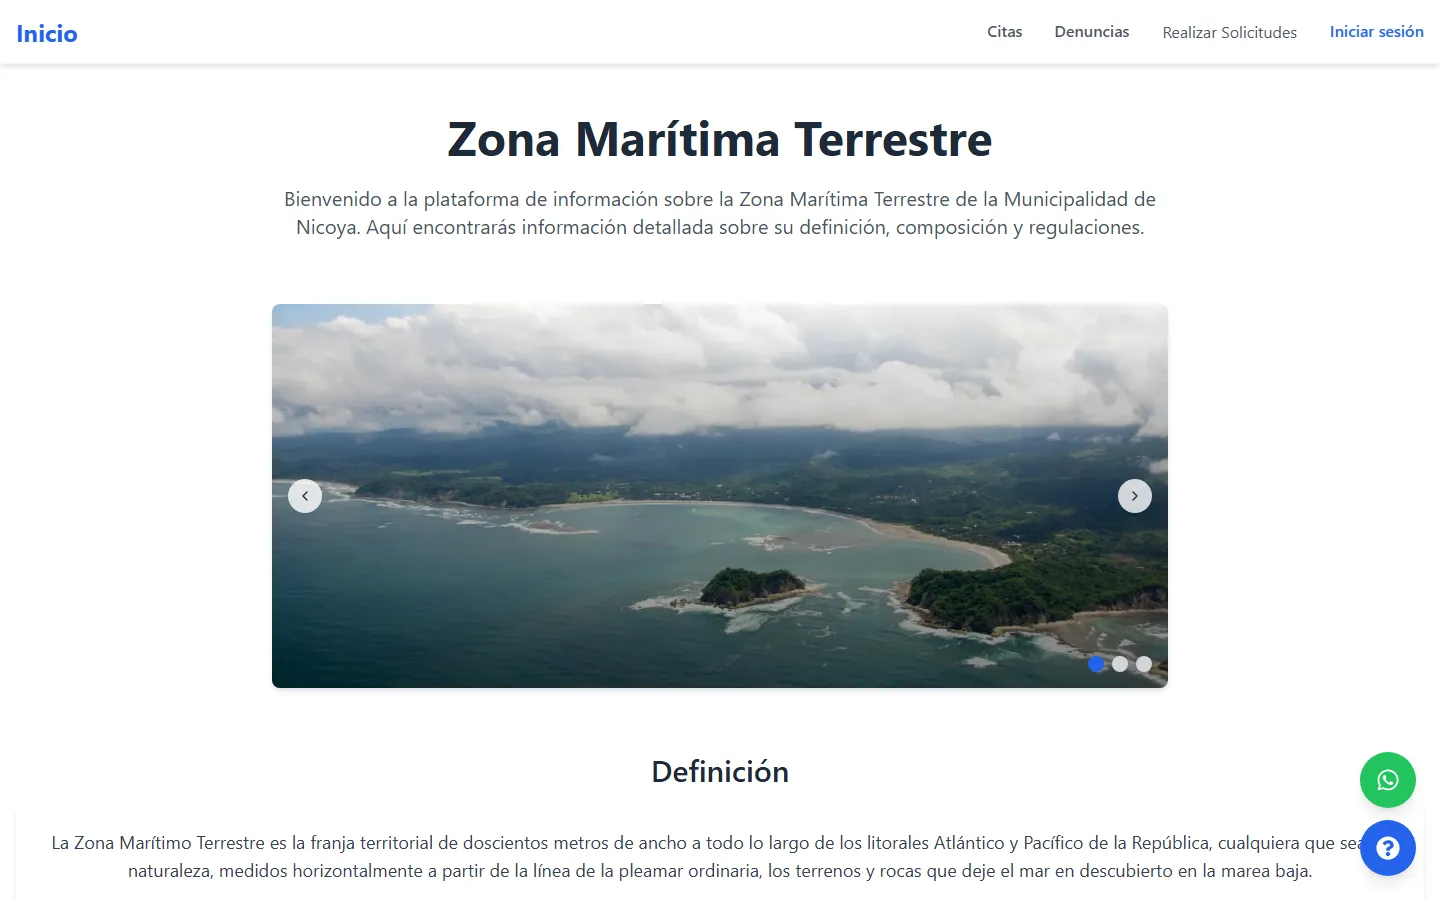
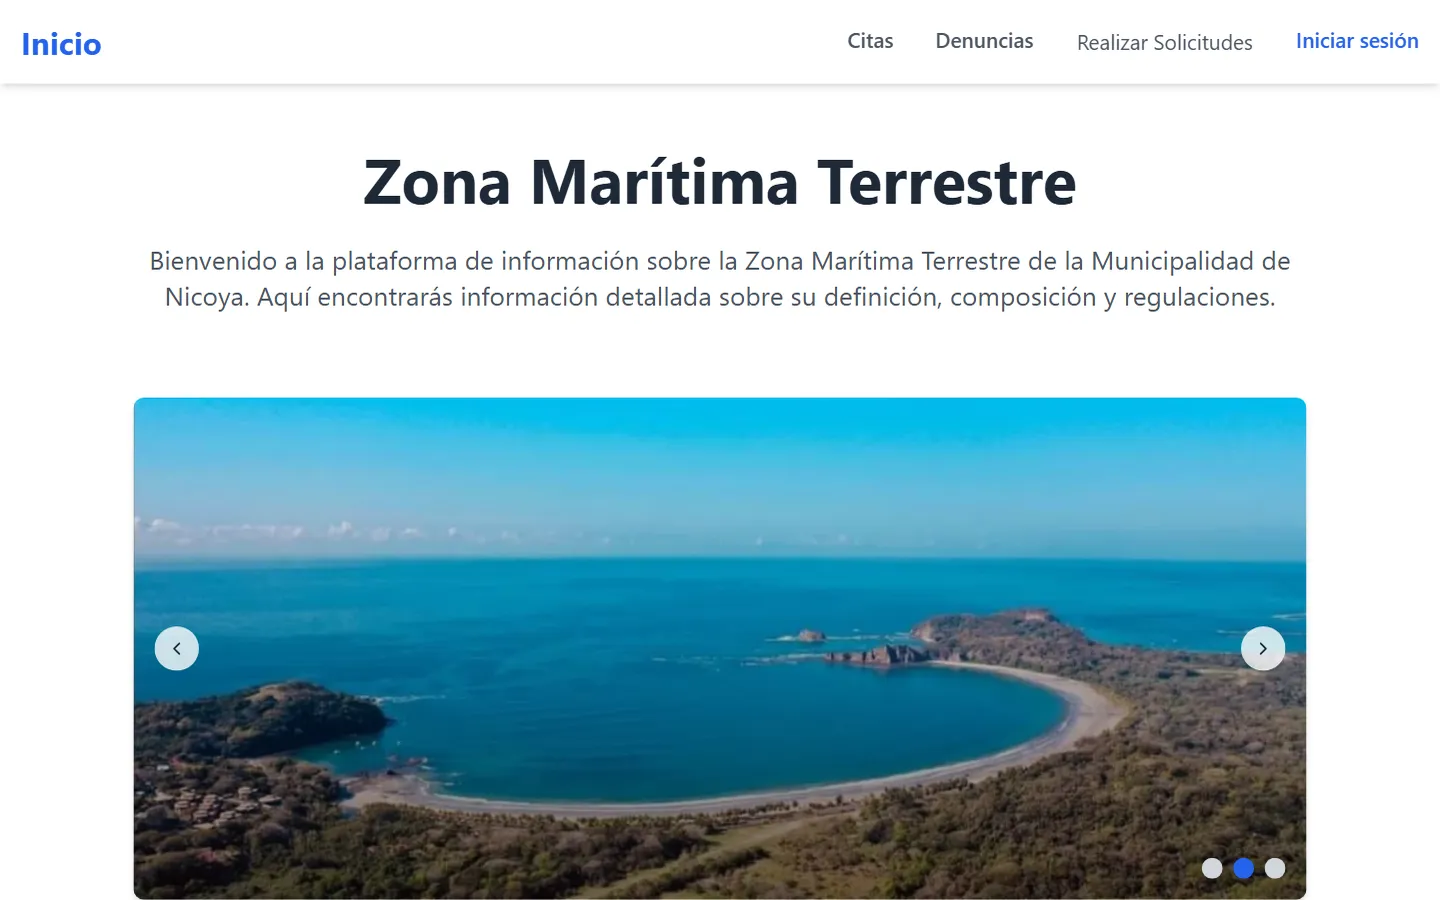
Ajustes tras la revisión del paso 6
- ASADA: el bloque tipográfico de la portada dice "ASADA Gamalotal" (campo opcional coverLabel).
- Portada de nicoya-zmt recortada al encabezado y la foto de la bahía, sin botones flotantes.
- Portada de turismo-cr sin el distintivo de Streamlit abajo a la derecha.
- Risk calculator con una descripción de su README, en inglés y español.
- nicoya-zmt: MariaDB pasa de alternativa descartada a restricción (la Municipalidad ya la usaba y dio acceso a su gestor).
- Pruebas e2e: los botones de CV de /en y /es devuelven 200 con un PDF, y el menú móvil abre, lleva a las anclas y cierra con Escape.

diff --git a/tests/e2e/cv.spec.ts b/tests/e2e/cv.spec.ts
@@ -1,0 +1,29 @@
+import { expect, test } from '@playwright/test';
+
+const FILES = { en: '/cv/CV_Frander_Centeno_EN.pdf', es: '/cv/CV_Frander_Centeno_ES.pdf' };
+
+for (const locale of ['en', 'es'] as const) {
+  test(`los botones de CV de /${locale} apuntan al PDF y responde 200`, async ({
+    page,
+  }, testInfo) => {
+    await page.goto(`/${locale}`);
+    const expected = FILES[locale];
+
+    // Botón del hero: está en los dos tamaños.
+    const hero = page.locator('main a[download]').first();
+    await expect(hero).toHaveAttribute('href', expected);
+
+    // Botón de la cabecera (escritorio) o del menú (móvil).
+    if (testInfo.project.name === 'mobile') {
+      await page.getByRole('button', { name: /menu|menú/i }).click();
+      await expect(page.locator('#mobile-menu a[download]')).toHaveAttribute('href', expected);
+    } else {
+      await expect(page.locator('header a[download]')).toHaveAttribute('href', expected);
+    }
+
+    const res = await page.request.get(expected);
+    expect(res.status()).toBe(200);
+    expect(res.headers()['content-type']).toContain('pdf');
+    expect((await res.body()).subarray(0, 4).toString()).toBe('%PDF');
+  });
+}

diff --git a/tests/e2e/menu.spec.ts b/tests/e2e/menu.spec.ts
@@ -1,0 +1,31 @@
+import { expect, test } from '@playwright/test';
+
+test('el menú abre, lleva a las anclas y cierra con Escape', async ({ page }, testInfo) => {
+  test.skip(testInfo.project.name !== 'mobile', 'solo en móvil');
+  await page.goto('/en');
+  const toggle = page.locator('button[aria-controls="mobile-menu"]');
+  const panel = page.locator('#mobile-menu');
+
+  await expect(panel).toHaveCount(0);
+  await toggle.click();
+  await expect(toggle).toHaveAttribute('aria-expanded', 'true');
+  await expect(panel).toBeVisible();
+
+  // Los tres enlaces llevan a su ancla y el menú se cierra.
+  for (const [name, id] of [
+    ['Projects', 'projects'],
+    ['Experience', 'experience'],
+    ['Contact', 'contact'],
+  ]) {
+    await panel.getByRole('link', { name }).click();
+    await expect(page).toHaveURL(new RegExp(`#${id}$`));
+    await expect(page.locator(`#${id}`)).toBeInViewport();
+    await expect(panel).toHaveCount(0);
+    await toggle.click();
+    await expect(panel).toBeVisible();
+  }
+
+  await page.keyboard.press('Escape');
+  await expect(panel).toHaveCount(0);
+  await expect(toggle).toHaveAttribute('aria-expanded', 'false');
+});

diff --git a/src/components/home/OtherProjects.tsx b/src/components/home/OtherProjects.tsx
@@ -1,10 +1,11 @@
-import { useTranslations } from 'next-intl';
+import { useLocale, useTranslations } from 'next-intl';
 import { ExternalLink } from '@/components/ui/ExternalLink';
 import { otherProjects } from '@/data/other-projects';
 import { Section } from './Section';
 
 export function OtherProjects() {
   const t = useTranslations('Home.other');
+  const locale = useLocale() as 'en' | 'es';
 
   return (
     <Section id="other" title={t('title')}>
@@ -14,7 +15,10 @@ export function OtherProjects() {
             key={p.id}
             className="flex flex-col gap-3 border-t border-line py-6 md:flex-row md:items-center md:justify-between"
           >
-            <h3 className="text-[28px] tracking-[-0.01em]">{p.name}</h3>
+            <div>
+              <h3 className="text-[28px] tracking-[-0.01em]">{p.name}</h3>
+              <p className="mt-1 text-ink-soft">{p.description[locale]}</p>
+            </div>
             <div className="flex gap-6 font-medium">
               <ExternalLink href={p.demo} className="flex min-h-11 items-center underline">
                 {t('demo')}

diff --git a/src/data/other-projects.ts b/src/data/other-projects.ts
@@ -1,6 +1,7 @@
 export type OtherProject = {
   id: string;
   name: string;
+  description: { en: string; es: string };
   demo: string;
   repo: string;
 };
@@ -9,6 +10,10 @@ export const otherProjects: OtherProject[] = [
   {
     id: 'risk-calculator',
     name: 'Risk calculator',
+    description: {
+      en: 'Risk calculator with qualitative and quantitative assessment, built with NestJS and React.',
+      es: 'Calculadora de riesgos con evaluación cualitativa y cuantitativa, hecha con NestJS y React.',
+    },
     demo: 'https://risk-calculator-web.vercel.app',
     repo: 'https://github.com/Frandercc1234/risk-calculator',
   },

diff --git a/src/lib/content.ts b/src/lib/content.ts
@@ -32,6 +32,8 @@ export const projectSchema = z
     // Sin captura real, la portada es un bloque tipográfico: cover y coverAlt faltan juntos.
     cover: z.string().startsWith('/projects/').optional(),
     coverAlt: z.string().min(10).optional(),
+    // Texto del bloque tipográfico cuando no hay captura (por defecto, el título).
+    coverLabel: z.string().max(40).optional(),
     // El demo se duerme (Streamlit Community Cloud): la tarjeta y el caso lo avisan.
     demoSleeps: z.boolean().optional(),
     featured: z.boolean(),

diff --git a/src/components/home/ProjectCard.tsx b/src/components/home/ProjectCard.tsx
@@ -27,7 +27,7 @@ function Cover({ meta, priority }: { meta: ProjectMeta; priority: boolean }) {
       className="flex aspect-[16/10] items-end rounded-image bg-surface p-6 md:p-8"
     >
       <span className="font-serif text-[32px] leading-[1.1] font-medium tracking-[-0.02em] md:text-4xl">
-        {meta.title}
+        {meta.coverLabel ?? meta.title}
       </span>
     </div>
   );

diff --git a/CLAUDE.md b/CLAUDE.md
@@ -155,6 +155,7 @@ export const projectSchema = z.object({
   }),
   cover: z.string().startsWith('/projects/').optional(),  // imagen 16:10; sin captura real, portada tipográfica
   coverAlt: z.string().min(10).optional(),                // va junto con cover
+  coverLabel: z.string().max(40).optional(),              // texto del bloque tipográfico (por defecto, el título)
   demoSleeps: z.boolean().optional(),                     // el demo se duerme: se avisa "may take ~30 s to wake up"
   featured: z.boolean(),
   order: z.number().int().min(1),
